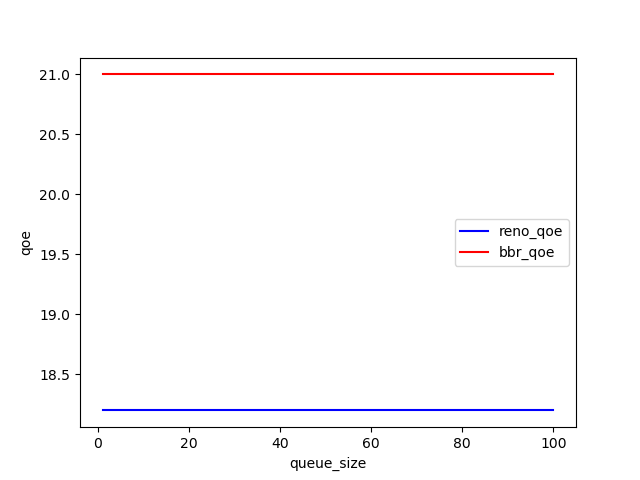
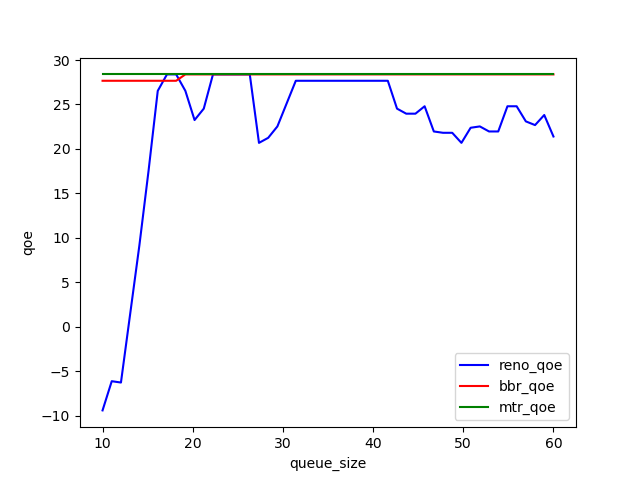
results of qoe model

diff --git a/qoe_difference.py b/qoe_difference.py
@@ -50,8 +50,8 @@ def cal_distance(block_file, trace_file, x):
     mtr_qoe = cal_qoe(x)
     return [reno_qoe, bbr_qoe, mtr_qoe]
 
-def plt_qoe(reno_arr, bbr_arr, pic, xidx, size, mtr_arr=None):
-    x = np.linspace(1, 100, size)
+def plt_qoe(reno_arr, bbr_arr, pic, xidx, size, start, end, mtr_arr=None):
+    x = np.linspace(start, end, size)
     fig, ax = plt.subplots()
     ax.plot(x,reno_arr, color="blue", label="reno_qoe")
     ax.plot(x, bbr_arr, color="red", label="bbr_qoe")
@@ -69,24 +69,24 @@ if __name__ == '__main__':
     log_file = "output/pcc_emulator.log"
     log_packet_file = "output/packet_log/packet-0.log"
     pic = "qoemodel/qoe_difference.png"
-    idx,size = "trace_index",10
-    x = 0.9
+    idx,size = "trace_index",60
+    x = 0.85
     reno_arr = []
     bbr_arr = []
     mtr_arr = []
-    for j in range(1, 101, 10):
+    for j in range(1, 121, 2):
         trace_file = "scripts/first_group/traces_" + str(j) + ".txt"
         qoe_difference = cal_distance(block_file, trace_file, x)
         reno_arr.append(qoe_difference[0])
         bbr_arr.append(qoe_difference[1])
         mtr_arr.append(qoe_difference[2])
 
-    plt_qoe(reno_arr, bbr_arr, pic, idx, size, mtr_arr)
+    plt_qoe(reno_arr, bbr_arr, pic, idx, size, 1, 121, mtr_arr)
     MIN_QUEUE = MAX_QUEUE = queue_size = 55
     with open("qoemodel/qoe_difference.log","w+") as f:
-        strs = ["trace numbers : 50\n", "buffer: MAX_QUEUE = MIN_QUEUE = "+
+        strs = ["trace numbers : 60\n", "buffer: MAX_QUEUE = MIN_QUEUE = "+
                 str(queue_size) + "\n",
-                "bw : 0.1 ~ 2 MB \n",
+                "bw : 1 ~ 12 MB \n",
                 "qoe = " + str(x) + " * priority + "+ str(1 - x) + " * deadline\n",
                 str(reno_arr) + "\n",
                 str(bbr_arr)]

diff --git a/qoe_buffer.py b/qoe_buffer.py
@@ -20,22 +20,25 @@ if __name__ == '__main__':
     log_packet_file = "output/packet_log/packet-0.log"
     pic = "qoemodel/qoes_buffer.png"
     idx, size = "queue_size", 50
-    x = 0.9
+    x = 0.85
     reno_arr = []
     bbr_arr = []
+    mtr_arr = []
     for j in range(10, 60):
         constant.MAX_QUEUE = constant.MIN_QUEUE = j
         qoe_difference = cal_distance(block_file, trace_file, x)
         reno_arr.append(qoe_difference[0])
         bbr_arr.append(qoe_difference[1])
+        mtr_arr.append(qoe_difference[2])
 
-    plt_qoe(reno_arr, bbr_arr, pic, idx, size)
+    plt_qoe(reno_arr, bbr_arr, pic, idx, size, 10, 60, mtr_arr)
 
     with open("qoemodel/qoes_buffer.log","w+") as f:
         strs = ["buffer: MAX_QUEUE = 10, MIN_QUEUE = 59\n",
-                "qoe = 0.9 * priority + 0.1 * deadline\n",
+                "qoe = 0.85 * priority + 0.15 * deadline\n",
                 str(reno_arr) + "\n",
-                str(bbr_arr)]
+                str(bbr_arr) + "\n",
+                str(mtr_arr)]
         f.writelines(strs)
 
 

diff --git a/qoe_model.py b/qoe_model.py
@@ -68,7 +68,7 @@ if __name__ == '__main__':
     for i in range(1, 100, 3):
         x = i / 100
         arr = []
-        for j in range(1, 101):
+        for j in range(1, 121):
             trace_file = "scripts/first_group/traces_" + str(j) + ".txt"
             qoe_distance = cal_distance(block_file, trace_file, x)
             arr.append(qoe_distance)
@@ -77,7 +77,7 @@ if __name__ == '__main__':
     best_x = max(qoes, key=qoes.get)
     with open("qoemodel/qoe_model.log","w+") as f:
         f.write(str(qoes) + '\n')
-        f.write(str(best_x) + " * priority + " + str(1 - best_x) + " * ddl " )
+        f.write(str(best_x) + " * priority + " + str(1 - best_x) + " * whether_miss_ddl " )
 
 
 
